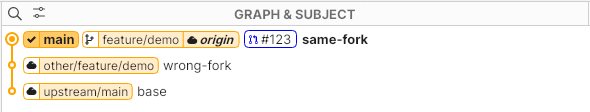
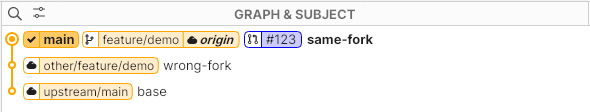
Match PR badges to branch and tag styling

Changed region(s): [[0.3966, 0.2679, 0.6407, 0.4286]]

diff --git a/src/Views/PullRequestBadges.cs b/src/Views/PullRequestBadges.cs
@@ -42,8 +42,6 @@ namespace SourceGit.Views
                 var button = new Button
                 {
                     Content = $"#{badge.Number}",
-                    FontSize = 11,
-                    Padding = new Thickness(4, 0),
                     Margin = new Thickness(0, 0, 5, 0),
                     VerticalAlignment = VerticalAlignment.Center,
                 };

diff --git a/PROTOTYPE.md b/PROTOTYPE.md
@@ -5,7 +5,7 @@
 ## What was prototyped
 
 - **C1 — Discover open PRs.** With `--github-pr-badges`, SourceGit runs `gh api` in the background when a repository opens and once per minute afterward. It queries the GitHub repositories configured as remotes and matches the PR head repository, case-sensitive branch name, and exact fetched commit. See `src/Commands/GitHubPullRequests.cs` and `src/ViewModels/Repository.cs`.
-- **C2 — Show links in the graph.** The graph shows `#123` beside the matching branch labels on the head commit row, with the theme's link color, a small merge icon, and space before the commit subject. The tooltip names the source branch and the destination repository; clicking opens that PR in the browser. See `src/Views/Histories.axaml` and `src/Views/PullRequestBadges.cs`.
+- **C2 — Show links in the graph.** The graph shows `#123` beside the matching branch labels on the head commit row, with the same split icon-and-label layout as branch and tag badges, a light tint behind the PR number, and space before the commit subject. The tooltip names the source branch and the destination repository; clicking opens that PR in the browser. See `src/Views/Histories.axaml` and `src/Views/PullRequestBadges.cs`.
 
 ## Demo scenarios
 
